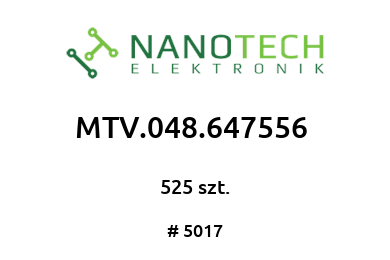
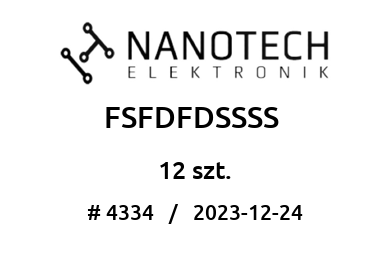
Dodanie opcji drukowania kodu projektu zamiast nazwy gdy Montaż

diff --git a/main.py b/main.py
@@ -13,9 +13,14 @@ PCB_NAME_FILE_PATH = r"C:\Development\Python\naklejki_pcb\pcb_name.txt"
 # Nazwa drukarki
 PRINTER_NAME = "Godex DT2x"
 
-def clean_pcb_name(text):
-    """ Funkcja używająca wyrażenia regularnego do znalezienia i usunięcia treści w nawiasach { } """
-    cleaned_text = re.sub(r'\{.*?\}', '', text)
+def clean_pcb_name(text, kod):
+    """ Funkcja używająca wyrażenia regularnego do znalezienia i usunięcia treści w nawiasach { } jeżeli PCB jest na sprzedaż. 
+    Jeżeli Montaż - zwraca kod Nanotech zamiast nazwy PCB"""
+    pattern = r'\{wysyłamy na montaż\}'
+    if re.search(pattern, text):
+        cleaned_text = kod
+    else:
+        cleaned_text = re.sub(r'\{.*?\}', '', text)
     return cleaned_text
 
 def clean_order_num(text):
@@ -120,21 +125,22 @@ def print_sticker(sticker_path, printer_name):
 def get_data_from_file():
     """ Funkcja pobierająca dane z pliku .txt i zwracająca 'nazwę pcb' """
 
-    with open(PCB_NAME_FILE_PATH, 'r') as file:
+    with open(PCB_NAME_FILE_PATH, 'r', encoding='utf-8') as file:
         lines = file.readlines()
-        pcb_name = lines[0].strip()
+        pcb_name = lines[0].strip() 
         order_num = lines[1].strip()
+        kod = lines[2].strip()
 
-    return pcb_name, order_num
+    return pcb_name, order_num, kod
 
 # Główna pętla programu
-pcb_name, order_num = get_data_from_file()
+pcb_name, order_num, kod = get_data_from_file()
 print(f"Drukowanie naklejek dla PCB: '{pcb_name}'")
 qty = input("Podaj ilości dla każdej naklejki oddzielone spacjami np. '25 25 25 15 50 40'\n")
 for _ in qty.split():
-    sticker_path = generate_sticker(pcb_name=clean_pcb_name(pcb_name), order_num=clean_order_num(order_num), qty=_)
-    print_sticker(sticker_path=sticker_path, printer_name=PRINTER_NAME)
+    sticker_path = generate_sticker(pcb_name=clean_pcb_name(pcb_name, kod), order_num=clean_order_num(order_num), qty=_)
+    #print_sticker(sticker_path=sticker_path, printer_name=PRINTER_NAME)
 
 
-# generate_sticker(clean_pcb_name("MTV.048.647556 {Mati znowu będzie się tłumaczył klientowi}"), "5017", "525")
+# generate_sticker(clean_pcb_name("MTV.048  .647556 {Mati znowu będzie się tłumaczył klientowi}"), "5017", "525")
 
